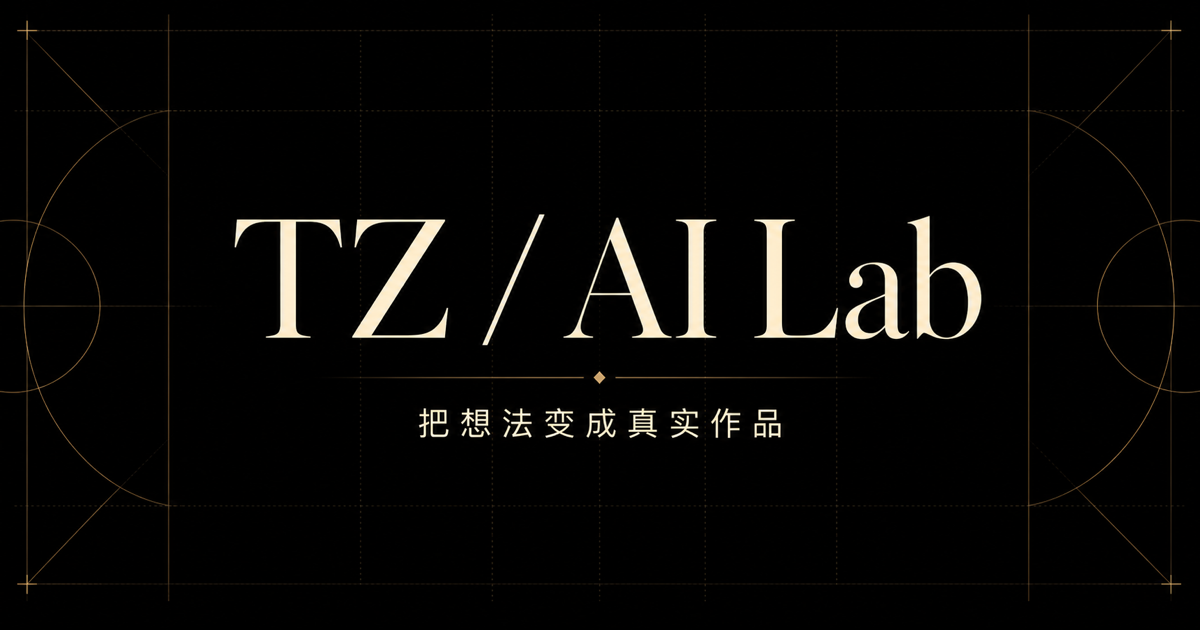
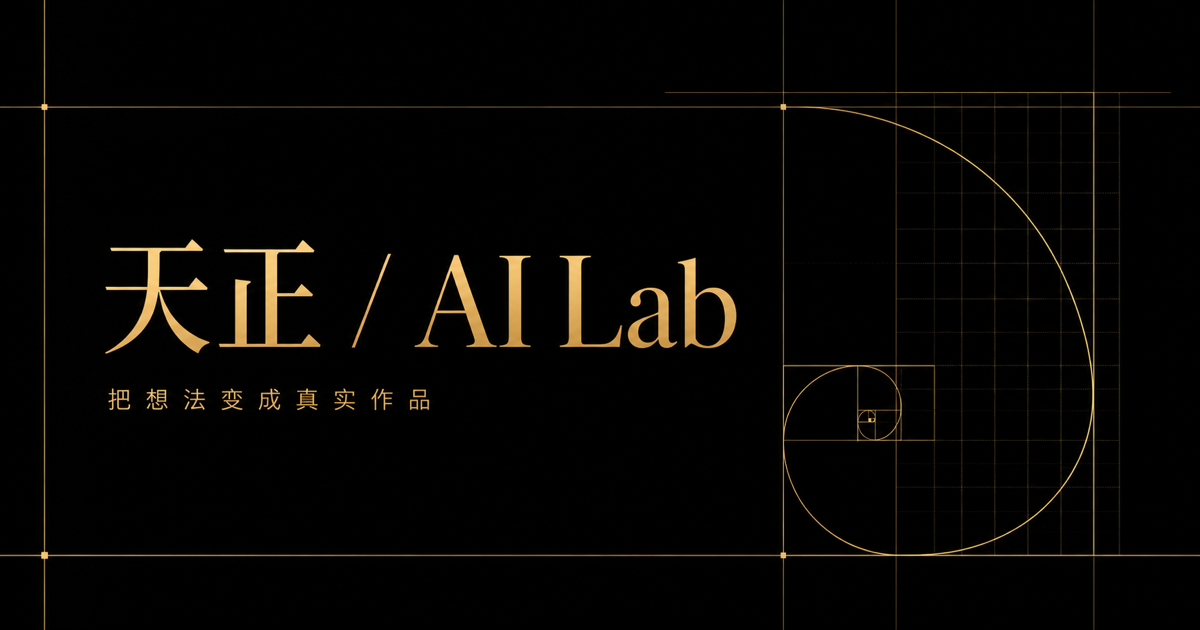
Polish Tianzheng personal brand site

diff --git a/app/globals.css b/app/globals.css
@@ -14,6 +14,7 @@
 }
 
 * { box-sizing: border-box; }
+::selection { color: #070603; background: var(--gold); }
 html { scroll-behavior: smooth; scroll-padding-top: 78px; }
 body {
   margin: 0;
@@ -78,6 +79,11 @@ a:focus-visible, button:focus-visible { outline: 2px solid var(--cream); outline
 .hero-lede { max-width: 690px; margin: 34px 0 0; font-size: clamp(19px, 1.65vw, 27px); font-weight: 650; line-height: 1.55; }
 .identity-line { margin: 26px 0 0; color: var(--gold); font-size: 12px; letter-spacing: .12em; }
 .hero-actions { display: flex; flex-wrap: wrap; gap: 14px; margin-top: 34px; }
+.hero-signals { display: grid; grid-template-columns: repeat(3, minmax(0, 1fr)); max-width: 620px; margin-top: 44px; border: 1px solid var(--line); background: rgba(5, 5, 5, .42); }
+.hero-signals div { display: grid; gap: 8px; min-height: 78px; padding: 17px 20px; }
+.hero-signals div + div { border-left: 1px solid var(--line); }
+.hero-signals span { color: rgba(244, 238, 219, .35); font-family: Georgia, serif; font-size: 11px; }
+.hero-signals strong { color: rgba(244, 238, 219, .84); font-family: Georgia, "Songti SC", serif; font-size: 16px; }
 .button { display: inline-grid; place-items: center; min-height: 48px; padding: 0 25px; border: 1px solid var(--line-strong); border-radius: 5px; font-size: 14px; font-weight: 700; transition: transform .2s var(--ease), background .2s var(--ease); }
 .button:hover { transform: translateY(-2px); }
 .button.primary { color: #0a0906; background: var(--gold); border-color: var(--gold); }
@@ -152,7 +158,7 @@ a:focus-visible, button:focus-visible { outline: 2px solid var(--cream); outline
 .wechat-card h3 { margin: 5px 0; font-family: Georgia, serif; font-size: clamp(32px, 4vw, 58px); }
 .wechat-copy > span:last-child { color: var(--muted); font-size: 13px; }
 .wechat-qr { display: grid; justify-items: stretch; width: 260px; }
-.wechat-qr > img { display: block; width: 260px; height: auto; border-radius: 8px; background: #fff; }
+.wechat-qr > img { display: block; width: 260px; height: auto; padding: 8px; border: 1px solid rgba(244, 195, 52, .18); border-radius: 8px; background: #fff; box-shadow: 0 20px 60px rgba(0, 0, 0, .28); image-rendering: crisp-edges; }
 
 .site-footer { display: flex; justify-content: space-between; align-items: center; gap: 20px; min-height: 110px; color: rgba(244, 238, 219, .46); font-size: 11px; letter-spacing: .08em; }
 .site-footer div { display: flex; gap: 22px; }
@@ -177,6 +183,9 @@ a:focus-visible, button:focus-visible { outline: 2px solid var(--cream); outline
   .hero { padding-block: 54px 78px; }
   .hero h1 { font-size: clamp(54px, 18vw, 80px); }
   .hero-lede { font-size: 18px; }
+  .hero-signals { margin-top: 34px; }
+  .hero-signals div { min-height: 70px; padding: 14px 12px; }
+  .hero-signals strong { font-size: 14px; }
   .hero-visual { width: 100%; }
   .portrait-card { padding: 20px; }
   .section-block { padding-block: 78px; }

diff --git a/app/page.tsx b/app/page.tsx
@@ -4,7 +4,8 @@ import { useEffect, useState } from 'react';
 
 // 在这里集中替换你的个人资料、作品和联系方式即可。
 const profile = {
-  name: 'TZ',
+  name: '天正',
+  monogram: 'TZ',
   brand: 'AI Lab',
   headline: '把想法变成\n真实作品',
   intro: '独立创作者与 AI 实践者。记录产品、内容与自动化从想法走向落地的全过程。',
@@ -15,7 +16,6 @@ const profile = {
   xHandle: '@ai_tianzheng',
   telegram: 'https://t.me/ai_tianzheng',
   telegramHandle: '@ai_tianzheng',
-  github: 'https://github.com/yourname',
 };
 
 const navItems = [
@@ -73,6 +73,7 @@ export default function Home() {
               key={item.id}
               className={`${activeSection === item.id ? 'is-active' : ''} ${item.id === 'contact' ? 'nav-cta' : ''}`}
               href={`#${item.id}`}
+              aria-current={activeSection === item.id ? 'location' : undefined}
               onClick={() => setActiveSection(item.id)}
             >
               {item.label}
@@ -95,6 +96,11 @@ export default function Home() {
             <a className="button primary" href="#works">阅读作品</a>
             <a className="button ghost" href="#contact">合作咨询</a>
           </div>
+          <div className="hero-signals" aria-label="关注方向">
+            <div><span>01</span><strong>AI 实践</strong></div>
+            <div><span>02</span><strong>产品设计</strong></div>
+            <div><span>03</span><strong>内容系统</strong></div>
+          </div>
         </div>
 
         <div className="hero-visual" aria-label="个人品牌视觉占位，可替换为你的头像">
@@ -102,7 +108,7 @@ export default function Home() {
           <div className="orbit orbit-two" />
           <div className="portrait-card">
             <span className="portrait-kicker">CREATIVE<br />INTELLIGENCE</span>
-            <strong>{profile.name}</strong>
+            <strong>{profile.monogram}</strong>
             <span className="portrait-label">AI × DESIGN × PRODUCT</span>
           </div>
           <span className="visual-note">01 / INTRO</span>
@@ -215,7 +221,11 @@ export default function Home() {
       <footer className="site-footer page-shell">
         <span>{profile.name} / {profile.brand}</span>
         <span>© 2026 BUILT WITH INTENTION</span>
-        <div><a href={profile.github}>GitHub</a><a href={profile.x}>X</a></div>
+        <div>
+          <a href={`mailto:${profile.email}`}>Email</a>
+          <a href={profile.telegram} target="_blank" rel="noreferrer">Telegram</a>
+          <a href={profile.x} target="_blank" rel="noreferrer">X</a>
+        </div>
       </footer>
     </main>
   );

diff --git a/app/layout.tsx b/app/layout.tsx
@@ -1,22 +1,22 @@
 import type { Metadata } from 'next';
 import './globals.css';
 
-const siteUrl = process.env.NEXT_PUBLIC_SITE_URL ?? 'https://your-domain.com';
+const siteUrl = process.env.NEXT_PUBLIC_SITE_URL ?? 'https://tz-ai-lab.ai-tianzheng.chatgpt.site';
 
 export const metadata: Metadata = {
   metadataBase: new URL(siteUrl),
-  title: 'TZ / AI Lab',
-  description: '独立创作者与 AI 实践者的个人品牌网站。',
+  title: '天正 / AI Lab',
+  description: '天正的个人品牌网站，记录 AI 实践、产品设计与内容系统。',
   openGraph: {
     type: 'website',
     locale: 'zh_CN',
-    title: 'TZ / AI Lab',
-    description: '把想法变成真实作品。独立创作者与 AI 实践者的个人品牌网站。',
-    images: [{ url: '/og.png', width: 1200, height: 630, alt: 'TZ / AI Lab' }],
+    title: '天正 / AI Lab',
+    description: '把想法变成真实作品。记录 AI 实践、产品设计与内容系统。',
+    images: [{ url: '/og.png', width: 1200, height: 630, alt: '天正 / AI Lab' }],
   },
   twitter: {
     card: 'summary_large_image',
-    title: 'TZ / AI Lab',
+    title: '天正 / AI Lab',
     description: '把想法变成真实作品。',
     images: ['/og.png'],
   },
